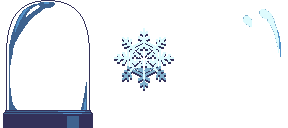
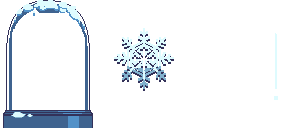
Particles!

diff --git a/Winter Defense/Characters/Player.cs b/Winter Defense/Characters/Player.cs
@@ -11,6 +11,11 @@ using Winter_Defense.Objects;
 using MonoGame.Extended.Particles;
 using MonoGame.Extended.TextureAtlases;
 using MonoGame.Extended.Particles.Profiles;
+using MonoGame.Extended;
+using MonoGame.Extended.Particles.Modifiers;
+using MonoGame.Extended.Particles.Modifiers.Interpolators;
+using MonoGame.Extended.Particles.Modifiers.Containers;
+using Winter_Defense.Particles;
 
 namespace Winter_Defense.Characters
 {
@@ -37,10 +42,12 @@ namespace Winter_Defense.Characters
         private bool _recharging;
 
         //--------------------------------------------------
-        // Shot Particle effect
+        // Particle Effects
 
         private ParticleEffect _shotParticleEffect;
-        public ParticleEffect ShotParticleEffect => _shotParticleEffect;
+        private ParticleEffect _walkParticleEffect;
+        private ParticleEffect _groundImpactParticleEffect;
+        private float _walkParticleEffectInterval;
 
         //--------------------------------------------------
         // Keys locked (no movement)
@@ -212,13 +219,78 @@ namespace Winter_Defense.Characters
 
         private void ParticlesInit(TextureRegion2D textureRegion)
         {
+            var profile = Profile.Spray(new Vector2(1, 0), (float)Math.PI / 3.0f);
             _shotParticleEffect = new ParticleEffect
             {
                 Emitters = new[]
                 {
-                    new ParticleEmitter(textureRegion, 500, TimeSpan.FromSeconds(2.5), Profile.Ring(150f, Profile.CircleRadiation.In))
+                    new ParticleEmitter(textureRegion, 25, TimeSpan.FromSeconds(1), profile, false)
                     {
-
+                        Parameters = new ParticleReleaseParameters
+                        {
+                            Speed = new Range<float>(30f, 100f),
+                            Quantity = 5,
+                            Rotation = new Range<float>(-1f, 1f),
+                            Scale = new Range<float>(1.5f, 3.5f),
+                            Color = new Range<HslColor>(new HslColor(186, 0.8f, 0.96f), new HslColor(186, 1.0f, 0.96f))
+                        },
+                        Modifiers = new IModifier[]
+                        {
+                            new LinearGravityModifier { Direction = Vector2.UnitY, Strength = 90f },
+                            new RotationModifier { RotationRate = 1f },
+                            new OpacityFastFadeModifier(),
+                            new MapContainerModifier { RestitutionCoefficient = 0.3f }
+                        }
+                    }
+                }
+            };
+            var groundImpactProfile = Profile.Line(Vector2.UnitX, 11);
+            _groundImpactParticleEffect = new ParticleEffect
+            {
+                Emitters = new[]
+                {
+                    new ParticleEmitter(textureRegion, 50, TimeSpan.FromSeconds(0.4f), groundImpactProfile)
+                    {
+                        Parameters = new ParticleReleaseParameters
+                        {
+                            Speed = new Range<float>(20f, 40f),
+                            Quantity = 10,
+                            Rotation = new Range<float>(-1f, 1f),
+                            Scale = new Range<float>(3.0f, 5.0f),
+                            Color = new HslColor(186, 0.13f, 0.96f)
+                        },
+                        Modifiers = new IModifier[]
+                        {
+                            new LinearGravityModifier { Direction = Vector2.UnitY, Strength = 70f },
+                            new MapContainerModifier { RestitutionCoefficient = 0.3f },
+                            new OpacityFastFadeModifier()
+                        }
+                    }
+                }
+            };
+            var walkProfile = Profile.Line(Vector2.UnitX, 10);
+            _walkParticleEffect = new ParticleEffect
+            {
+                Emitters = new[]
+                {
+                    new ParticleEmitter(textureRegion, 50, TimeSpan.FromSeconds(0.4f), walkProfile)
+                    {
+                        Parameters = new ParticleReleaseParameters
+                        {
+                            Speed = new Range<float>(20f, 30f),
+                            Quantity = 5,
+                            Rotation = new Range<float>(-1f, 1f),
+                            Scale = new Range<float>(3.0f, 5.0f),
+                            Color = new HslColor(186, 0.13f, 0.96f),
+                            Opacity = 0.9f
+                        },
+                        Modifiers = new IModifier[]
+                        {
+                            new LinearGravityModifier { Direction = Vector2.Zero, Strength = 100.0f },
+                            new LinearGravityModifier { Direction = Vector2.UnitY, Strength = 70.0f },
+                            new MapContainerModifier { RestitutionCoefficient = 0.3f },
+                            new OpacityFastFadeModifier()
+                        }
                     }
                 }
             };
@@ -239,7 +311,10 @@ namespace Winter_Defense.Characters
             CheckKeys(gameTime);
             base.Update(gameTime);
             UpdateSprites(gameTime, isOnGroundBefore);
-            _shotParticleEffect.Update(deltaTime);
+            UpdateParticles(deltaTime);
+
+            if (InputManager.Instace.KeyPressed(Keys.P))
+                _walkParticleEffect.Trigger(SceneManager.Instance.VirtualSize / 2);
         }
 
         private void UpdateSprites(GameTime gameTime, bool isOnGroundBefore)
@@ -248,10 +323,25 @@ namespace Winter_Defense.Characters
             if (_isOnGround && !isOnGroundBefore && !_groundImpact)
             {
                 _groundImpact = true;
+                TriggerGroundImpactParticles();
             }
             if (_groundImpact && CharacterSprite.Looped)
             {
                 _groundImpact = false;
+            }
+        }
+
+        private void UpdateParticles(float deltaTime)
+        {
+            _shotParticleEffect.Update(deltaTime);
+            _walkParticleEffect.Update(deltaTime);
+            _groundImpactParticleEffect.Update(deltaTime);
+
+            _walkParticleEffectInterval += deltaTime;
+            if (WalkingByInput() && _isOnGround && _walkParticleEffectInterval > 0.2f)
+            {
+                TriggerWalkParticles();
+                _walkParticleEffectInterval = 0.0f;
             }
         }
 
@@ -262,8 +352,6 @@ namespace Winter_Defense.Characters
 
         public override void UpdateFrameList()
         {
-            var walking = (InputManager.Instace.KeyDown(Keys.Left) || InputManager.Instace.KeyDown(Keys.Right)) && !_keysLocked;
-
             // Main Sprite
             if (_dying)
             {
@@ -292,7 +380,7 @@ namespace Winter_Defense.Characters
                     CharacterSprite.SetFrameList("jumping");
                 }
             }
-            else if (walking)
+            else if (WalkingByInput())
             {
                 CharacterSprite.SetFrameList("walking");
             }
@@ -313,7 +401,7 @@ namespace Winter_Defense.Characters
                     _bottomSprite.SetFrameList("jumping");
                 }
             }
-            else if (_recharging && !walking)
+            else if (_recharging && !WalkingByInput())
             {
                 _bottomSprite.SetFrameList("recharging");
             }
@@ -321,7 +409,7 @@ namespace Winter_Defense.Characters
             {
                 _bottomSprite.SetFrameList("jumping_impact");
             }
-            else if (walking)
+            else if (WalkingByInput())
             {
                 _bottomSprite.SetFrameList("walking");
             }
@@ -384,8 +472,38 @@ namespace Winter_Defense.Characters
                 position += new Vector2(25, 12);
             }
 
-            _knockbackAcceleration = 3800.0f * -Math.Sign(dx);
+            var sign = Math.Sign(dx);
+            var particlePosition = new Vector2(position.X + 5, position.Y + 5);
+            TriggerShotParticles(new Vector2(sign, 0), particlePosition);
+            _knockbackAcceleration = 3800.0f * -sign;
             ((SceneMap)SceneManager.Instance.GetCurrentScene()).CreateProjectile("snowball", position, dx, 0, damage, ProjectileSubject.FromPlayer);
+        }
+
+        private void TriggerShotParticles(Vector2 direction, Vector2 position)
+        {
+            var profile = (SprayProfile)_shotParticleEffect.Emitters[0].Profile;
+            profile.Direction = direction;
+            _shotParticleEffect.Trigger(position);
+        }
+
+        private void TriggerGroundImpactParticles()
+        {
+            var position = new Vector2(BoundingRectangle.Center.X, BoundingRectangle.Bottom);
+            _groundImpactParticleEffect.Trigger(position);
+        }
+
+        private void TriggerWalkParticles()
+        {
+            var inc = Math.Sign(_velocity.X) * 5;
+            var position = new Vector2(BoundingRectangle.Center.X + inc, BoundingRectangle.Bottom);
+            var linearModifier = (LinearGravityModifier)_walkParticleEffect.Emitters[0].Modifiers[0];
+            linearModifier.Direction = Math.Sign(_velocity.X) * -Vector2.UnitX;
+            _walkParticleEffect.Trigger(position);
+        }
+
+        private bool WalkingByInput()
+        {
+            return (InputManager.Instace.KeyDown(Keys.Left) || InputManager.Instace.KeyDown(Keys.Right)) && !_keysLocked;
         }
 
         #region Draw
@@ -394,6 +512,8 @@ namespace Winter_Defense.Characters
             _bottomSprite.Draw(spriteBatch, new Vector2(BoundingRectangle.X, BoundingRectangle.Y));
             base.DrawCharacter(spriteBatch);
             spriteBatch.Draw(_shotParticleEffect);
+            spriteBatch.Draw(_walkParticleEffect);
+            spriteBatch.Draw(_groundImpactParticleEffect);
         }
         #endregion
     }

diff --git a/Winter Defense/Particles/MapContainerModifier.cs b/Winter Defense/Particles/MapContainerModifier.cs
@@ -1,0 +1,55 @@
+using Microsoft.Xna.Framework;
+using MonoGame.Extended.Particles.Modifiers;
+using MonoGame.Extended.Particles;
+using Winter_Defense.Managers;
+
+namespace Winter_Defense.Particles
+{
+    class MapContainerModifier : IModifier
+    {
+        public float RestitutionCoefficient { get; set; } = 1;
+
+        public unsafe void Update(float elapsedSeconds, ParticleBuffer.ParticleIterator iterator)
+        {
+            while (iterator.HasNext)
+            {
+                var particle = iterator.Next();
+
+                var left = 0;
+                var right = SceneManager.Instance.VirtualSize.X;
+                var top = 0;
+                var bottom = MapManager.Instance.MapHeight - MapManager.Instance.TileSize.Y;
+
+                var xPos = particle->Position.X;
+                var xVel = particle->Velocity.X;
+                var yPos = particle->Position.Y;
+                var yVel = particle->Velocity.Y;
+
+                if ((int)particle->Position.X < left)
+                {
+                    xPos = left + (left - xPos);
+                    xVel = -xVel * RestitutionCoefficient;
+                }
+                else if (particle->Position.X > right)
+                {
+                    xPos = right - (xPos - right);
+                    xVel = -xVel * RestitutionCoefficient;
+                }
+
+                if (particle->Position.Y < top)
+                {
+                    yPos = top + (top - yPos);
+                    yVel = -yVel * RestitutionCoefficient;
+                }
+                else if ((int)particle->Position.Y > bottom)
+                {
+                    yPos = bottom - (yPos - bottom);
+                    yVel = -yVel * RestitutionCoefficient;
+                    xVel = xVel * RestitutionCoefficient * 2;
+                }
+                particle->Position = new Vector2(xPos, yPos);
+                particle->Velocity = new Vector2(xVel, yVel);
+            }
+        }
+    }
+}
